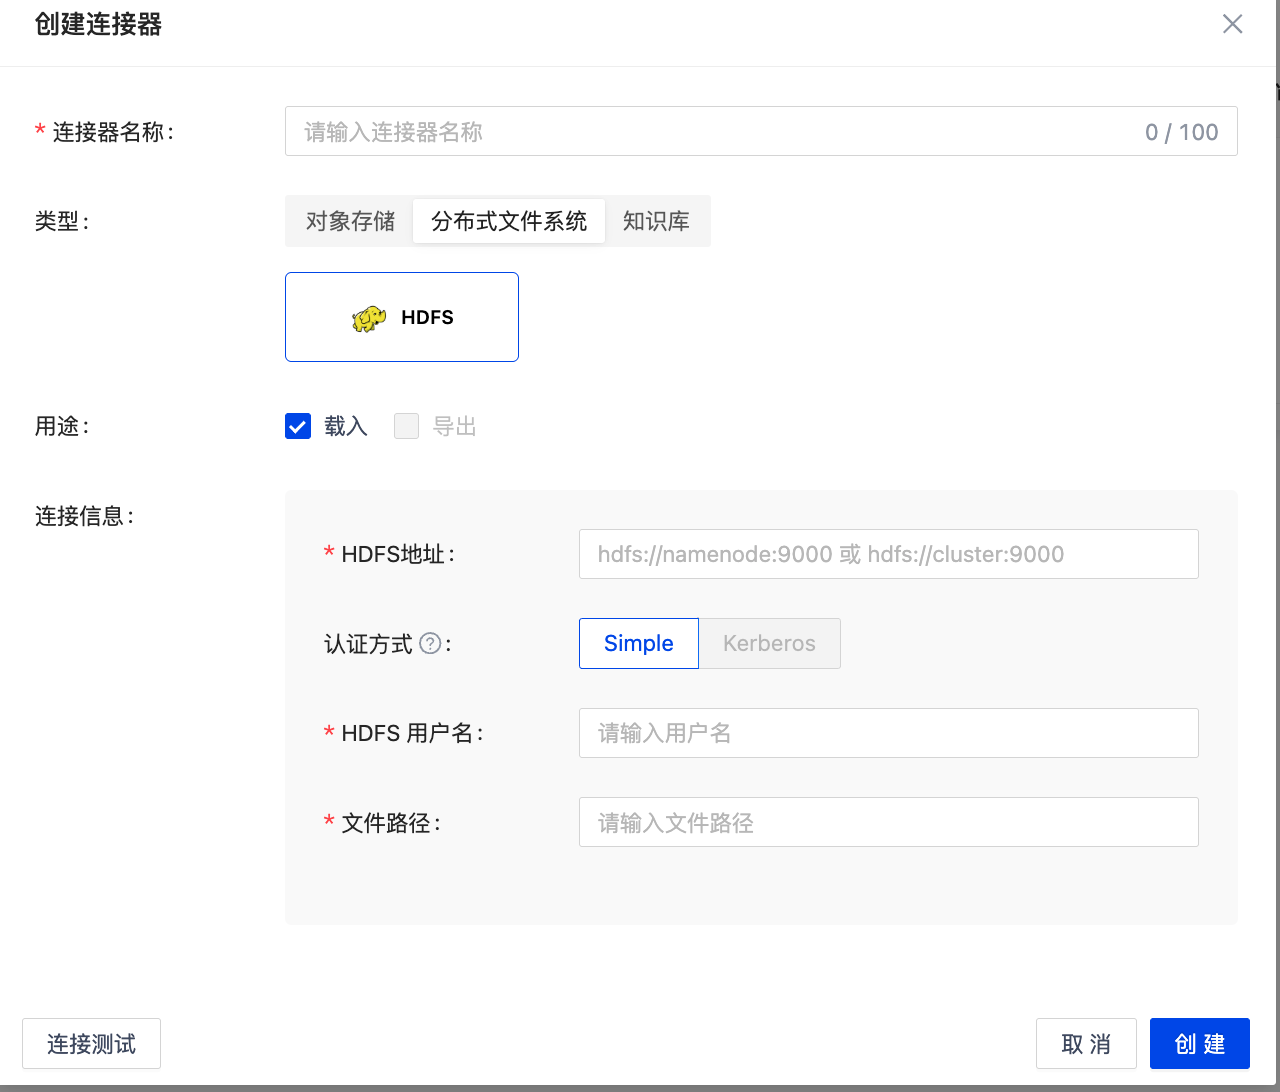
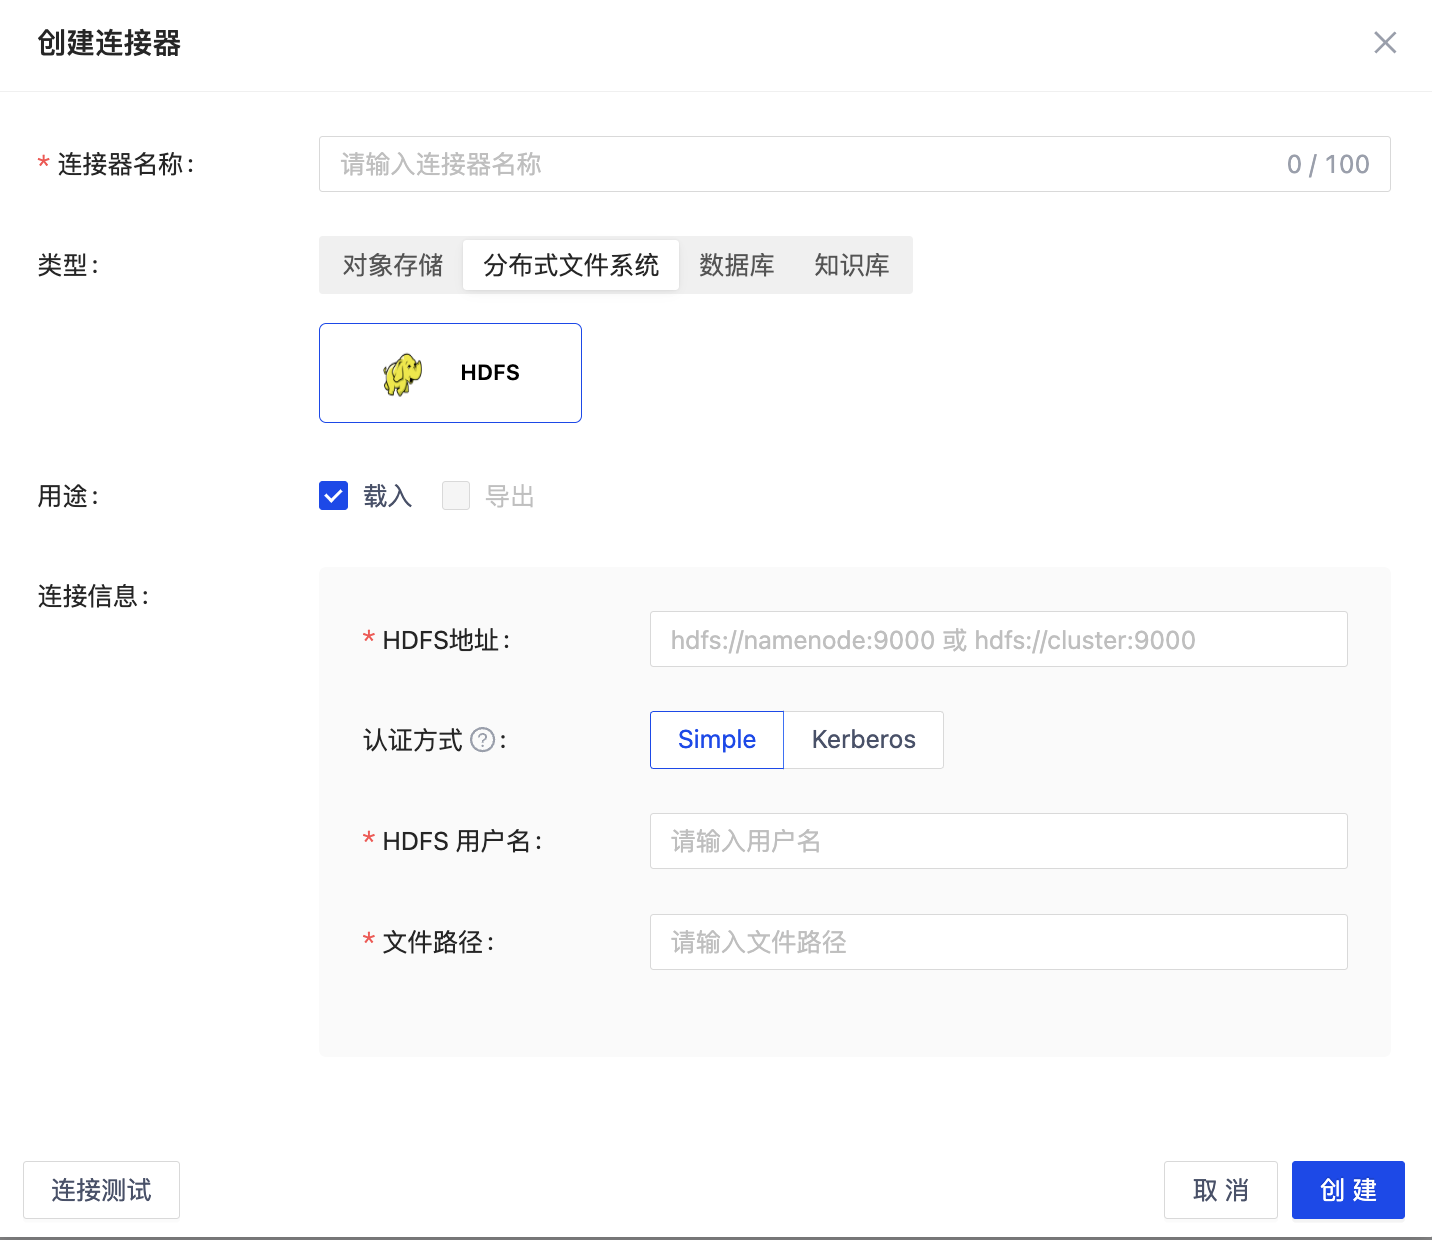
4.0ga

diff --git a/docs/MatrixOne-Intelligence/Release-Notes/2025.md b/docs/MatrixOne-Intelligence/Release-Notes/2025.md
@@ -1,6 +1,31 @@
 
 # **MatrixOne Intelligence 2025 发布报告**
 
+## 2025 年 08 月 29 日
+
+**错误修复**
+
+- HDFS 连接器支持 Kerberos 模式
+  
+HDFS 连接器现已支持 Kerberos 认证模式，通过集成企业级统一身份认证机制，进一步提升了数据访问的安全性与合规性，同时保持与原有简单认证模式的兼容性，可根据实际需求灵活切换。
+
+**错误修复**
+
+- 修复了信息提取节点 - 文档解析 + 提取节点处理后，查看解析结果页面出现接口报错的问题；
+- 修复了导出到 S3 - 选择导出连接器的选择框 placeholder 显示的文案不对的问题；
+- 修复了信息提取节点使用多模态模型处理 md 文件，作业的处理文件列表里没有 md 文件的记录的问题；
+- 修复了部分情况下创建工作流时未产生作业的问题；
+- 修复了在创建并删除某个受邀 MOI 账号用户后再次添加时，会在该账号下生成重复工作区的情况；
+- 修复了导出到 MO - 选择已存在的表 - 选择重复文件覆盖策略，如果 file_id 映射到的目标字段值包含空的，导出任务失败的问题；
+- 修复了导出 MO - 选择重复数据跳过策略 - 不管 file_id 有没有重复都会跳过的问题；
+- 修复了数据中心 - 工作流里有信息提取节点（上游接解析节点），文件解析结果页报错的问题；
+- 修复了信息提取节点 - 上游是解析节点，下载解析结果只有分块的 json 文件，而且分块是空的问题；
+- 修复了旧账号没有展示注册时输入的手机号的问题；
+- 修复了 "我加入的工作区" 如果被禁用，还是能切换，在我的工作区列表里没有标记为已禁用的问题；
+- 修复了工作区密码验证错误时报错信息均是：local service login error: <nil>的问题；
+- 修复了工作流选择的原数据卷里有多个文件，作业详情里文件列表翻页出现重复的文件的问题；
+- 修复了 hdfs kerberos 连接器创建成功后点击编辑报错 (r || []). forEach is not a function
+
 ## 2025 年 08 月 22 日
 
 **错误修复**

diff --git a/docs/MatrixOne-Intelligence/Data-Connect/connector.md b/docs/MatrixOne-Intelligence/Data-Connect/connector.md
@@ -49,9 +49,16 @@ MatrixOne Intellogence 平台提供了一个强大的数据连接器，用于支
 要将 HDFS 中的文件导入至 MatrixOne Intelligence 平台，您需要提供以下连接配置信息以完成数据接入配置：
 
 - HDFS 地址：如 `hdfs://namenode:9000`
-- 认证方式：目前仅支持 Simple
-- HDFS 用户名：HDFS 访问用户名
-- 文件路径：HDFS 文件路径
+- 认证方式：支持 Simple 和 Kerberos 两种认证方法
+- Simple
+    - HDFS 用户名：HDFS 访问用户名
+    - 文件路径：HDFS 文件路径
+- Kerberos
+    - Kerberos Principal：Kerberos 中用于标识用户或服务的主体（Principal），客户端通过它向 Kerberos 认证服务请求票据，从而证明身份。
+    - Keytab 文件：存储 Kerberos 主体和加密密钥的文件，通常用于自动化认证，客户端可以使用它向 Kerberos 获取票据而无需手动输入密码，需要妥善保管。
+    - Krb5 配置文件：Kerberos 客户端配置文件，定义了 Realm、KDC 等信息，告诉客户端如何与 Kerberos 服务器交互进行身份验证。
+    - 代理用户：在某些场景下，Kerberos 认证主体需要以其他用户身份访问 HDFS，可指定代理用户以实现权限委托，让主用户代表代理用户执行操作，如果不使用代理用户可以留空。
+    - 文件路径：HDFS 文件路径
 
 ![](https://community-shared-data-1308875761.cos.ap-beijing.myqcloud.com/artwork/mocdocs/images/hdfs.png)
 
